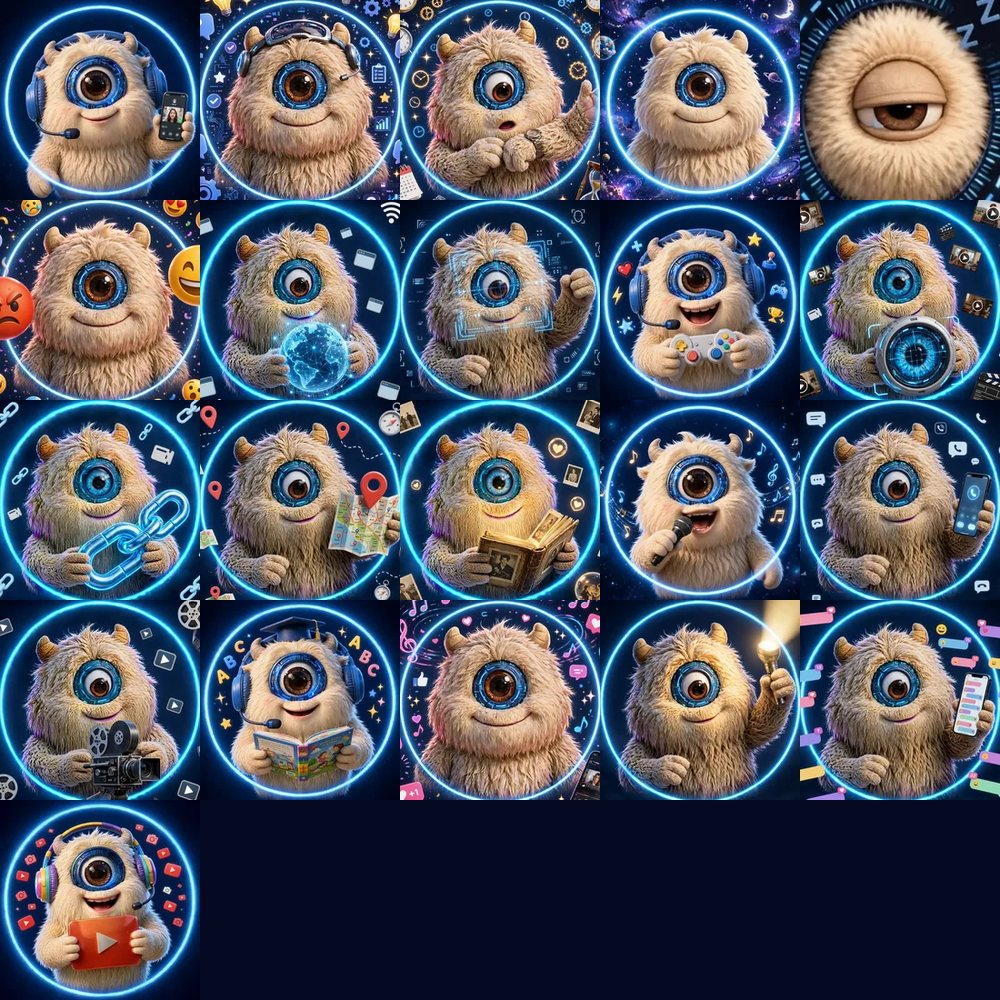
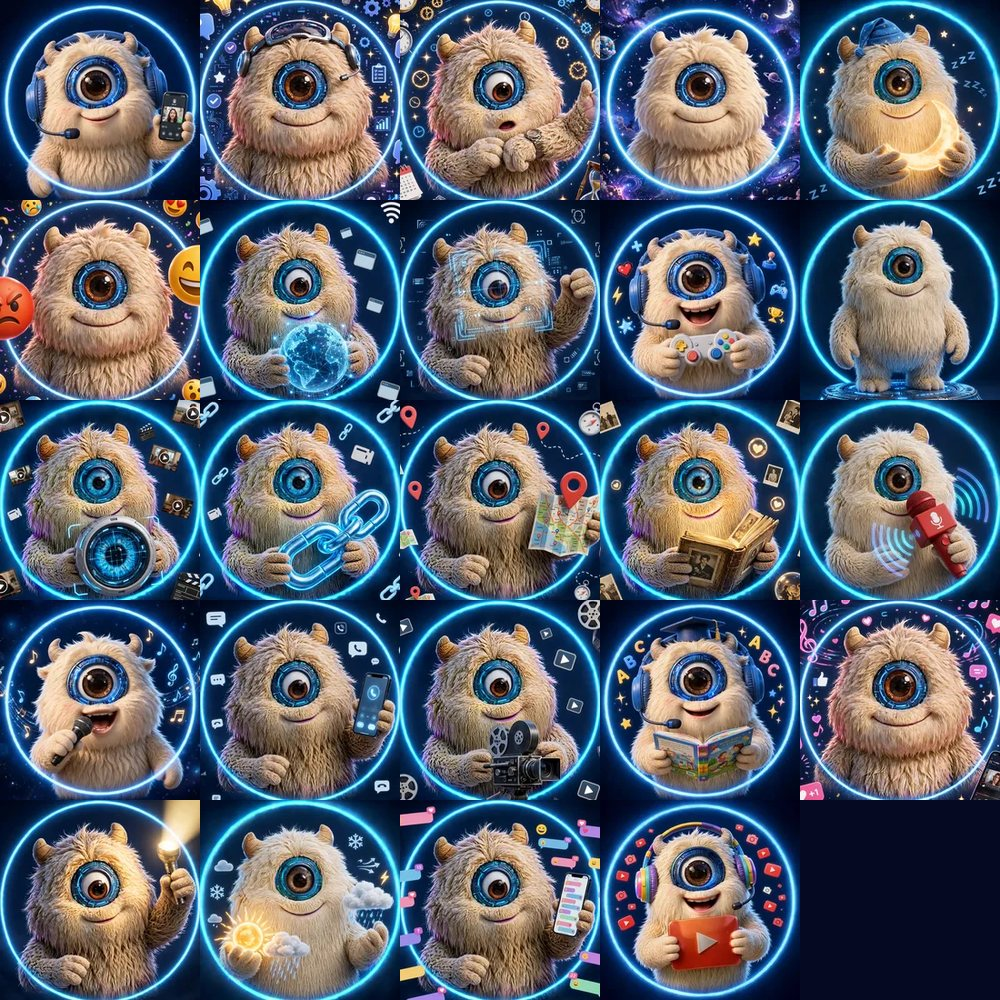
Démo : mascottes Nuit, Socle, Météo et micro
Claude-Session: https://claude.ai/code/session_01HmDuQiYFhyot1Lrx4rF6nG

diff --git a/BeyaBears-Site/index.html b/BeyaBears-Site/index.html
@@ -44,7 +44,7 @@
     </nav>
     <button class="cartBtn" id="cartOpen" type="button" aria-label="Panier"><svg viewBox="0 0 24 24" fill="none" stroke="currentColor" stroke-width="2" stroke-linecap="round" stroke-linejoin="round" aria-hidden="true"><path d="M3 4h2.5l2.2 11h10.6l2-8H7"/><circle cx="9.5" cy="19.5" r="1.4"/><circle cx="17" cy="19.5" r="1.4"/></svg><b id="cartCount" hidden>0</b></button>
     <div class="langs" role="group" aria-label="Langue"><button type="button" data-lang="fr">FR</button><button type="button" data-lang="en">EN</button><button type="button" data-lang="es">ES</button></div>
-    <a class="btn demo" href="https://akhimysah.github.io/osiris/beyabears/?app=1&amp;v=33" target="_blank" rel="noopener">Essayer la démo</a>
+    <a class="btn demo" href="https://akhimysah.github.io/osiris/beyabears/?app=1&amp;v=34" target="_blank" rel="noopener">Essayer la démo</a>
     <a class="btn line res" href="#reserver">Réserver · 249 €</a>
   </div>
 </header>
@@ -53,7 +53,7 @@
   <a href="#oeil" data-tab="oeil"><svg viewBox="0 0 24 24" fill="none" stroke="currentColor" stroke-width="2" stroke-linecap="round" stroke-linejoin="round" aria-hidden="true"><circle cx="12" cy="12" r="8.5"/><circle cx="12" cy="12" r="3.2" fill="currentColor"/></svg><span>L’œil</span></a>
   <a href="#compagnons" data-tab="compagnons"><svg viewBox="0 0 24 24" fill="none" stroke="currentColor" stroke-width="2" stroke-linecap="round" stroke-linejoin="round" aria-hidden="true"><circle cx="6.5" cy="6" r="2.6"/><circle cx="17.5" cy="6" r="2.6"/><circle cx="12" cy="13" r="7"/></svg><span>Collection</span></a>
   <a href="#offre" data-tab="offre"><svg viewBox="0 0 24 24" fill="none" stroke="currentColor" stroke-width="2" stroke-linecap="round" stroke-linejoin="round" aria-hidden="true"><path d="M3 12V4h8l10 10-8 8z"/><circle cx="8" cy="9" r="1.4"/></svg><span>Prix</span></a>
-  <a class="go" href="https://akhimysah.github.io/osiris/beyabears/?app=1&amp;v=33" target="_blank" rel="noopener"><svg viewBox="0 0 24 24" fill="none" stroke="currentColor" stroke-width="2" stroke-linecap="round" stroke-linejoin="round" aria-hidden="true"><path d="M8 5l11 7-11 7z" fill="currentColor"/></svg><span>Démo</span></a>
+  <a class="go" href="https://akhimysah.github.io/osiris/beyabears/?app=1&amp;v=34" target="_blank" rel="noopener"><svg viewBox="0 0 24 24" fill="none" stroke="currentColor" stroke-width="2" stroke-linecap="round" stroke-linejoin="round" aria-hidden="true"><path d="M8 5l11 7-11 7z" fill="currentColor"/></svg><span>Démo</span></a>
 </nav>
 
 <main id="haut">
@@ -129,7 +129,7 @@
         <span class="label">À vous de jouer</span>
         <h2 class="title big">Testez l’œil.</h2>
         <p class="lead">Touchez une fonction : l’écran change dans le visage de l’ourson. Puis ouvrez la démo complète, elle fonctionne dès maintenant sur votre téléphone, avec la voix, la caméra et les appels.</p>
-        <div class="actions"><a class="btn demo xl" href="https://akhimysah.github.io/osiris/beyabears/?app=1&amp;v=33" target="_blank" rel="noopener">Ouvrir la démo complète</a></div>
+        <div class="actions"><a class="btn demo xl" href="https://akhimysah.github.io/osiris/beyabears/?app=1&amp;v=34" target="_blank" rel="noopener">Ouvrir la démo complète</a></div>
       </div>
       <div class="eye-grid">
         <div class="modes rise" role="tablist" aria-label="Ce que l'œil sait faire">
@@ -172,8 +172,8 @@
       <div class="appLinks rise">
         <h3>Ouvrez une application dans la démo</h3>
         <p>Touchez une mascotte : elle ouvre la vraie application de l’œil.</p>
-        <div class="mascGrid"><a class="masc" href="https://akhimysah.github.io/osiris/beyabears/?app=1&amp;go=youtube&amp;v=33" target="_blank" rel="noopener"><span><img src="media/gz/m-youtube.webp" alt="" width="520" height="520" loading="lazy"></span><b>YouTube</b></a><a class="masc" href="https://akhimysah.github.io/osiris/beyabears/?app=1&amp;go=call&amp;v=33" target="_blank" rel="noopener"><span><img src="media/gz/m-appel.webp" alt="" width="520" height="520" loading="lazy"></span><b>Appels vidéo</b></a><a class="masc" href="https://akhimysah.github.io/osiris/beyabears/?app=1&amp;go=games&amp;v=33" target="_blank" rel="noopener"><span><img src="media/gz/m-jeux.webp" alt="" width="520" height="520" loading="lazy"></span><b>Jeux</b></a><a class="masc" href="https://akhimysah.github.io/osiris/beyabears/?app=1&amp;go=story&amp;v=33" target="_blank" rel="noopener"><span><img src="media/gz/m-histoires.webp" alt="" width="520" height="520" loading="lazy"></span><b>Histoires</b></a><a class="masc" href="https://akhimysah.github.io/osiris/beyabears/?app=1&amp;go=emo&amp;v=33" target="_blank" rel="noopener"><span><img src="media/gz/m-emotions.webp" alt="" width="520" height="520" loading="lazy"></span><b>Émotions</b></a><a class="masc" href="https://akhimysah.github.io/osiris/beyabears/?app=1&amp;go=music&amp;v=33" target="_blank" rel="noopener"><span><img src="media/gz/m-musique.webp" alt="" width="520" height="520" loading="lazy"></span><b>Musique</b></a><a class="masc" href="#parents"><span><img src="media/gz/m-securite.webp" alt="" width="520" height="520" loading="lazy"></span><b>Sécurité</b></a></div>
-        <p class="mascMore"><span>Aussi dans la démo :</span> <a href="https://akhimysah.github.io/osiris/beyabears/?app=1&amp;go=core&amp;v=33" target="_blank" rel="noopener">Cœur énergétique</a><a href="https://akhimysah.github.io/osiris/beyabears/?app=1&amp;go=chat&amp;v=33" target="_blank" rel="noopener">Assistant</a><a href="https://akhimysah.github.io/osiris/beyabears/?app=1&amp;go=dream&amp;v=33" target="_blank" rel="noopener">Nuit</a></p>
+        <div class="mascGrid"><a class="masc" href="https://akhimysah.github.io/osiris/beyabears/?app=1&amp;go=youtube&amp;v=34" target="_blank" rel="noopener"><span><img src="media/gz/m-youtube.webp" alt="" width="520" height="520" loading="lazy"></span><b>YouTube</b></a><a class="masc" href="https://akhimysah.github.io/osiris/beyabears/?app=1&amp;go=call&amp;v=34" target="_blank" rel="noopener"><span><img src="media/gz/m-appel.webp" alt="" width="520" height="520" loading="lazy"></span><b>Appels vidéo</b></a><a class="masc" href="https://akhimysah.github.io/osiris/beyabears/?app=1&amp;go=games&amp;v=34" target="_blank" rel="noopener"><span><img src="media/gz/m-jeux.webp" alt="" width="520" height="520" loading="lazy"></span><b>Jeux</b></a><a class="masc" href="https://akhimysah.github.io/osiris/beyabears/?app=1&amp;go=story&amp;v=34" target="_blank" rel="noopener"><span><img src="media/gz/m-histoires.webp" alt="" width="520" height="520" loading="lazy"></span><b>Histoires</b></a><a class="masc" href="https://akhimysah.github.io/osiris/beyabears/?app=1&amp;go=emo&amp;v=34" target="_blank" rel="noopener"><span><img src="media/gz/m-emotions.webp" alt="" width="520" height="520" loading="lazy"></span><b>Émotions</b></a><a class="masc" href="https://akhimysah.github.io/osiris/beyabears/?app=1&amp;go=music&amp;v=34" target="_blank" rel="noopener"><span><img src="media/gz/m-musique.webp" alt="" width="520" height="520" loading="lazy"></span><b>Musique</b></a><a class="masc" href="#parents"><span><img src="media/gz/m-securite.webp" alt="" width="520" height="520" loading="lazy"></span><b>Sécurité</b></a></div>
+        <p class="mascMore"><span>Aussi dans la démo :</span> <a href="https://akhimysah.github.io/osiris/beyabears/?app=1&amp;go=core&amp;v=34" target="_blank" rel="noopener">Cœur énergétique</a><a href="https://akhimysah.github.io/osiris/beyabears/?app=1&amp;go=chat&amp;v=34" target="_blank" rel="noopener">Assistant</a><a href="https://akhimysah.github.io/osiris/beyabears/?app=1&amp;go=dream&amp;v=34" target="_blank" rel="noopener">Nuit</a></p>
       </div>
     </div>
   </section>

diff --git a/BOOZZO-App/ui/index.html b/BOOZZO-App/ui/index.html
@@ -13,8 +13,8 @@
 <meta name="apple-mobile-web-app-title" content="BeyaBear’s">
 <meta name="apple-mobile-web-app-status-bar-style" content="default">
 <link rel="stylesheet" href="https://fonts.googleapis.com/css2?family=Lato:wght@400;700;900&family=Plus+Jakarta+Sans:wght@500;700;800&display=swap">
-<link rel="preload" as="image" href="mascottes.jpg?v=4">
-<link rel="stylesheet" href="style.css?v=11261900">
+<link rel="preload" as="image" href="mascottes.jpg?v=5">
+<link rel="stylesheet" href="style.css?v=11262000">
 <body>
 <script>(function(){var p=new URLSearchParams(location.search);if(!['app','proche','appel','oeil'].some(function(k){return p.has(k)}))document.body.classList.add('landing')})()</script>
 <div id="landing">
@@ -96,14 +96,14 @@
     <svg viewBox="0 0 34 30" aria-hidden="true"><circle cx="8" cy="8" r="6.5" fill="#ead9b8"/><circle cx="26" cy="8" r="6.5" fill="#ead9b8"/><circle cx="17" cy="17" r="12.5" fill="#ead9b8"/><circle cx="17" cy="16" r="6.6" fill="#06080f"/><circle cx="17" cy="16" r="5" fill="none" stroke="#2e8bff" stroke-width="2.2"/><circle cx="19" cy="14" r="1.3" fill="#fff"/></svg>
     BeyaBear’s
   </a>
-  <span class="tools"><button class="ghost mic" data-listen type="button" aria-label="Parler à BeyaBear’s"><svg viewBox="0 0 24 24" aria-hidden="true" fill="none" stroke="currentColor" stroke-width="2" stroke-linecap="round"><rect x="9" y="3" width="6" height="11" rx="3"/><path d="M5 11a7 7 0 0 0 14 0M12 18v3"/></svg></button>
+  <span class="tools"><button class="ghost mic" data-listen type="button" aria-label="Parler à BeyaBear’s"><span class="masc" style="background-position:100% 50%"></span></button>
   <button class="ghost" id="viewToggle" type="button">Agrandir l’œil</button></span>
 </header>
 
 <main>
   <section class="stage" id="stage" aria-label="BeyaBear’s">
     <div class="plushBox">
-      <img class="plush" src="ourson.webp?v=11261900" alt="Ourson BeyaBear’s en casquette marine et casque audio, sous le logo, avec son écran rond au milieu du visage">
+      <img class="plush" src="ourson.webp?v=11262000" alt="Ourson BeyaBear’s en casquette marine et casque audio, sous le logo, avec son écran rond au milieu du visage">
       <div class="eye" id="eye" role="button" tabindex="0" aria-label="Œil de BeyaBear’s : ouvrir le menu">
         <div class="iris" id="iris" role="img" aria-label="Iris de BeyaBear’s"></div>
         <div class="screen" id="screen"></div>
@@ -117,15 +117,15 @@
 
 <footer class="foot"><b>BeyaBear’s</b><span>Démonstration de l’œil · © 2026</span></footer>
 <div id="toast" role="status"></div>
-<script src="qr.js?v=11261900"></script>
-<script src="paroles.js?v=11261900"></script>
-<script src="langue.js?v=11261900"></script>
-<script src="voix/liste.js?v=11261900"></script>
-<script src="jeux.js?v=11261900"></script>
-<script src="labo.js?v=11261900"></script>
-<script src="app.js?v=11261900"></script>
-<script src="clavier.js?v=11261900"></script>
-<script src="accueil.js?v=11261900"></script>
-<script src="traduire.js?v=11261900"></script>
+<script src="qr.js?v=11262000"></script>
+<script src="paroles.js?v=11262000"></script>
+<script src="langue.js?v=11262000"></script>
+<script src="voix/liste.js?v=11262000"></script>
+<script src="jeux.js?v=11262000"></script>
+<script src="labo.js?v=11262000"></script>
+<script src="app.js?v=11262000"></script>
+<script src="clavier.js?v=11262000"></script>
+<script src="accueil.js?v=11262000"></script>
+<script src="traduire.js?v=11262000"></script>
 </body>
 </html>

diff --git a/BOOZZO-App/ui/style.css b/BOOZZO-App/ui/style.css
@@ -707,7 +707,7 @@ img.masc { display: block; width: 100%; height: 100%; object-fit: cover; border-
 @media (max-width: 700px) { .apps i.c-masc { width: 72px; height: 72px; } .l-try .apps i.c-masc { width: 58px; height: 58px; } }
 
 /* Mascottes : une seule planche d'images */
-span.masc { display: block; width: 100%; height: 100%; border-radius: 50%; background: #050a22 url(mascottes.jpg?v=4) no-repeat; background-size: 500% 500%; }
+span.masc { display: block; width: 100%; height: 100%; border-radius: 50%; background: #050a22 url(mascottes.jpg?v=5) no-repeat; background-size: 500% 500%; }
 
 /* --- Localisation --- */
 .c-locate { background: linear-gradient(#ff7a6b, #d62d3a); }
@@ -746,3 +746,9 @@ span.masc { display: block; width: 100%; height: 100%; border-radius: 50%; backg
 .musArtist { display: grid; grid-template-columns: 84px 1fr; gap: 14px; align-items: center; margin: 14px 0; padding: 12px; border-radius: 20px; background: #f7f1e3; color: #2a2112; }
 .musArtist img { width: 84px; height: 84px; border-radius: 14px; object-fit: cover; box-shadow: 0 6px 14px rgba(60, 40, 0, .25); } .musArtist small { display: block; font-size: .72rem; font-weight: 800; letter-spacing: .1em; text-transform: uppercase; color: #9a7a2a; } .musArtist b { display: block; font-size: 1.2rem; } .musArtist span { font-size: .86rem; color: #6b5a36; }
 .musList { max-height: 420px; overflow: auto; }
+
+/* Le bouton « Parler » : la mascotte au micro */
+.ghost.mic { padding: 3px; border-radius: 50%; } .ghost.mic span.masc { width: 42px; height: 42px; }
+body.hearing .ghost.mic { box-shadow: 0 0 0 3px var(--danger), 0 0 18px var(--danger); }
+.btn span.masc { width: 36px; height: 36px; flex: none; margin: -6px 2px -6px -10px; box-shadow: 0 0 0 2px #fff; }
+.menu .dock button span.masc { width: 100%; height: 100%; }

diff --git a/BOOZZO-App/ui/app.js b/BOOZZO-App/ui/app.js
@@ -69,8 +69,9 @@ const EXTERNAL = [
 ];
 // Les mascottes remplacent les pictogrammes : une image ronde par application.
 // Toutes les mascottes tiennent dans une seule image : un seul chargement, donc jamais d'icône vide isolée.
-const MASCOTS = ['call', 'chat', 'clock', 'core', 'dream', 'emo', 'esim', 'face', 'games', 'iris', 'link', 'locate', 'memory', 'music', 'phone', 'photo', 'story', 'tiktok', 'torch', 'whatsapp', 'youtube'];
+const MASCOTS = ['call', 'chat', 'clock', 'core', 'dream', 'emo', 'esim', 'face', 'games', 'holo', 'iris', 'link', 'locate', 'memory', 'mic', 'music', 'phone', 'photo', 'story', 'tiktok', 'torch', 'weather', 'whatsapp', 'youtube'];
 MASCOTS.forEach((id, n) => { ICON['m_' + id] = `<span class="masc" style="background-position:${(n % 5) * 25}% ${Math.floor(n / 5) * 25}%"></span>`; });
+ICON.mic = ICON.m_mic; // le bouton « Parler » porte la mascotte au micro
 APPS.forEach((app) => { if (MASCOTS.includes(app[0])) { ICON[app[0]] = ICON['m_' + app[0]]; app[2] = 'c-masc'; } });
 EXTERNAL.forEach((app) => { if (MASCOTS.includes(app[0])) { app[3] = 'm_' + app[0]; app[2] = 'c-masc'; } });
 const externalTile = ([, label, color, icon, url], cls = '') =>
